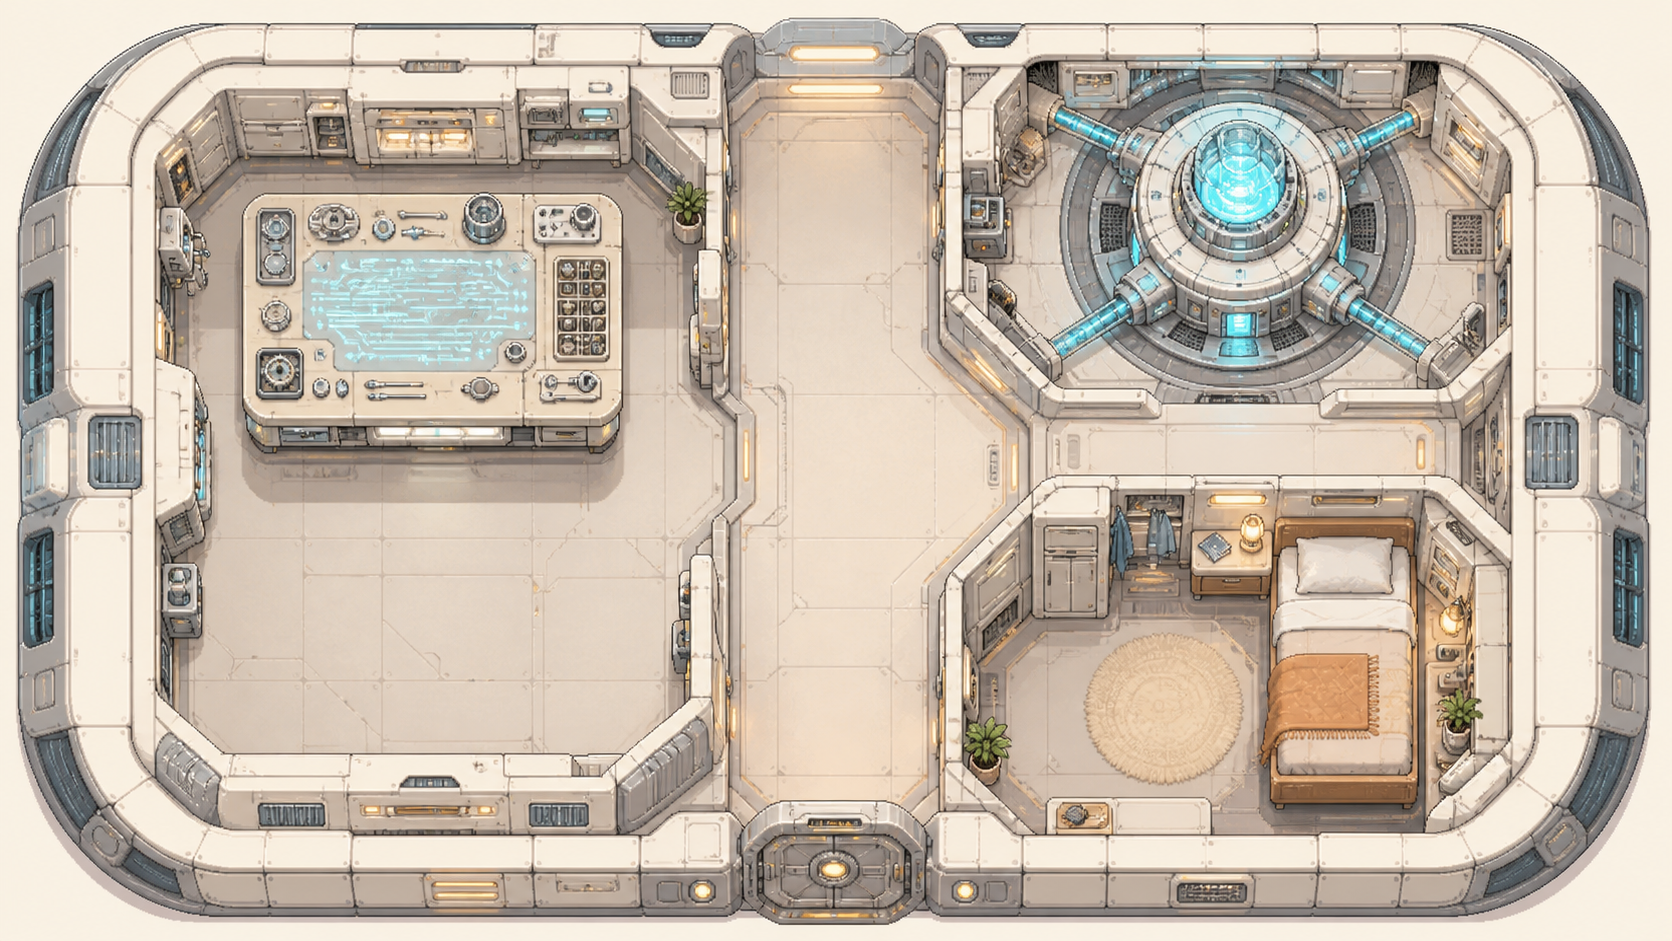
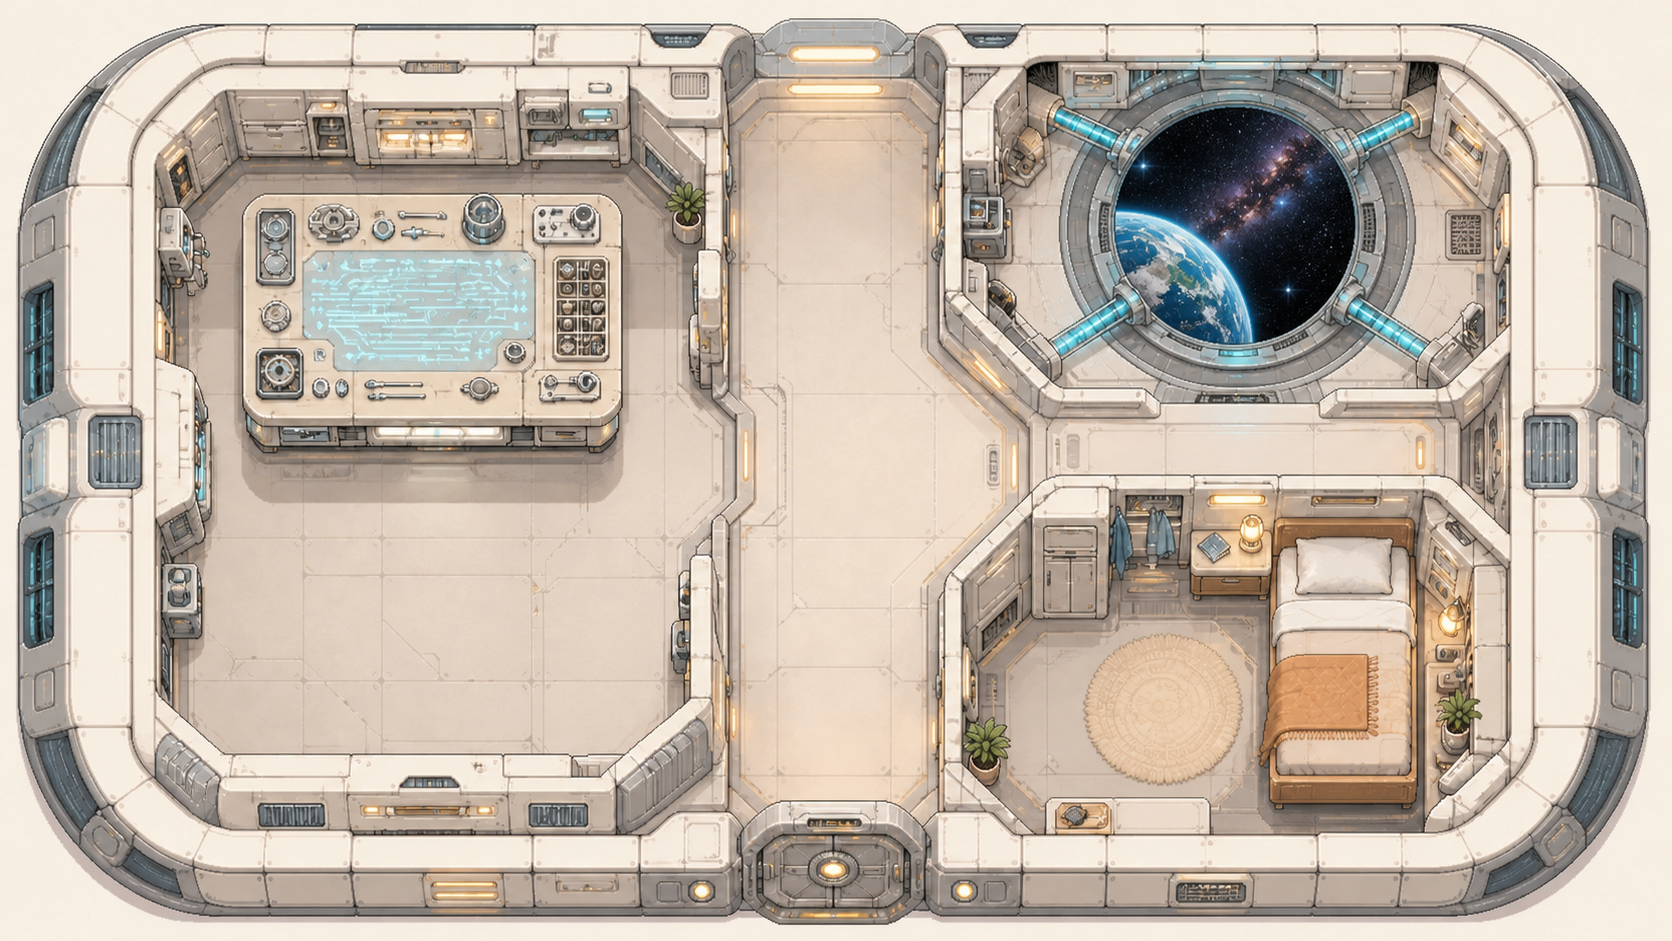
Add scene-aware music and capsule interaction data
The playable Atlas now carries a different musical pattern per scene and short event stingers for collection, transitions, success, and errors. The future capsule map also exposes three named interaction zones as test-covered engine data, while remaining a separate scene candidate.\n\nConstraint: Audio remains browser-local WebAudio and must degrade to silent play when unavailable.\nRejected: One global loop for every scene | it hides the difference between the river, station, and archive.\nConfidence: high\nScope-risk: moderate\nReversibility: clean\nDirective: Keep capsule zones data-only until a visible route and interaction contract are implemented.\nTested: focused frontend/web tests, full 265-test starter_kit suite, verify_submission all phases\nNot-tested: Real-device audio output and capsule interaction UX.

diff --git a/starter_kit/web/pixel.js b/starter_kit/web/pixel.js
@@ -6,6 +6,11 @@ const ctx = canvas.getContext("2d");
 const $ = (selector) => document.querySelector(selector);
 const TILE = 16;
 const COLORS = { grass: "#75b59e", grass2: "#83c1a4", wall: "#3e3657", wallTop: "#5f577b", water: "#78c7d4", flower: "#f06a7b", yellow: "#f6dd78", player: "#f06a7b", ink: "#281d35", paper: "#fff2c8" };
+const MUSIC_PATTERNS = {
+  village: { root: 0, tempo: 260, pad: [0, 7, 12], bass: [0, 0, -5, -5], melody: [12, 10, 7, 5, 7, 10, 12, 15] },
+  river: { root: -5, tempo: 220, pad: [-5, 2, 7, 14], bass: [-5, -5, 2, 2], melody: [7, 10, 14, 17, 14, 10, 7, 5] },
+  archive: { root: 3, tempo: 300, pad: [3, 10, 15], bass: [3, 3, -2, -2], melody: [15, 14, 10, 7, 10, 14, 17, 14] },
+};
 const mapImages = Object.fromEntries(Object.entries(worldEngine.SCENES).map(([id, scene]) => {
   const image = new Image();
   image.src = scene.background;
@@ -26,9 +31,11 @@ let toastTimer = 0;
 let lastFrame = performance.now();
 let currentScene = worldEngine.sceneAt(game.player);
 let audioContext = null;
+let audioGraph = null;
 let musicTimer = null;
 let musicOn = false;
 let musicStep = 0;
+let musicScene = "village";
 let movementClock = 0;
 const MOVE_INTERVAL = worldEngine.MOVE_INTERVAL;
 let playerAction = "idle";
@@ -65,7 +72,6 @@ function updateHud() {
   });
   $("#pixel-scene-name strong").textContent = worldEngine.SCENES[currentScene].name;
   $("#pixel-phase-value").textContent = worldEngine.SCENES[currentScene].phase.toUpperCase();
-  $(".pixel-stage").style.backgroundImage = `url('${worldEngine.SCENES[currentScene].background}')`;
   $("#pixel-zoom-meter strong").textContent = `${Math.round(zoom * 100)}%`;
   updateGuide();
   updateStoryLog();
@@ -131,45 +137,91 @@ function noteFrequency(note) {
   return 110 * (2 ** (note / 12));
 }
 
-function playMusicNote(note, duration = .18, volume = .018) {
-  if (!audioContext || !musicOn) return;
+function createMusicGraph() {
+  const AudioContextClass = window.AudioContext || window.webkitAudioContext;
+  if (!AudioContextClass) return null;
+  if (!audioContext) audioContext = new AudioContextClass();
+  if (audioGraph) return audioGraph;
+  const masterGain = audioContext.createGain();
+  const padGain = audioContext.createGain();
+  const bassGain = audioContext.createGain();
+  const melodyGain = audioContext.createGain();
+  const percussionGain = audioContext.createGain();
+  masterGain.gain.value = 0.0001;
+  padGain.gain.value = 0.42;
+  bassGain.gain.value = 0.34;
+  melodyGain.gain.value = 0.26;
+  percussionGain.gain.value = 0.18;
+  [padGain, bassGain, melodyGain, percussionGain].forEach((gain) => gain.connect(masterGain));
+  masterGain.connect(audioContext.destination);
+  audioGraph = { masterGain, padGain, bassGain, melodyGain, percussionGain };
+  return audioGraph;
+}
+
+function scheduleTone(note, duration, volume, type, when, destination) {
+  if (!audioContext || !audioGraph || !musicOn) return;
   const oscillator = audioContext.createOscillator();
   const gain = audioContext.createGain();
-  oscillator.type = "triangle";
+  oscillator.type = type;
   oscillator.frequency.value = noteFrequency(note);
-  gain.gain.setValueAtTime(volume, audioContext.currentTime);
-  gain.gain.exponentialRampToValueAtTime(.0001, audioContext.currentTime + duration);
-  oscillator.connect(gain).connect(audioContext.destination);
-  oscillator.start();
-  oscillator.stop(audioContext.currentTime + duration);
+  gain.gain.setValueAtTime(0.0001, when);
+  gain.gain.linearRampToValueAtTime(volume, when + 0.018);
+  gain.gain.exponentialRampToValueAtTime(0.0001, when + duration);
+  oscillator.connect(gain).connect(destination);
+  oscillator.start(when);
+  oscillator.stop(when + duration + 0.03);
+}
+
+function scheduleMusicStep() {
+  if (!audioContext || !audioGraph || !musicOn) return;
+  const pattern = MUSIC_PATTERNS[musicScene] || MUSIC_PATTERNS.village;
+  const step = musicStep % pattern.melody.length;
+  const when = audioContext.currentTime + 0.025;
+  if (step === 0) pattern.pad.forEach((note) => scheduleTone(pattern.root + note, 1.8, 0.018, "sine", when, audioGraph.padGain));
+  if (step % 2 === 0) scheduleTone(pattern.root + pattern.bass[(step / 2) % pattern.bass.length] - 12, 0.38, 0.035, "triangle", when, audioGraph.bassGain);
+  scheduleTone(pattern.root + pattern.melody[step], 0.24, 0.028, "sine", when, audioGraph.melodyGain);
+  if (step === 0 || step === 4) scheduleTone(pattern.root - 24, 0.055, 0.018, "square", when, audioGraph.percussionGain);
+  musicStep += 1;
+}
+
+function playEventStinger(kind) {
+  if (!audioContext || !audioGraph || !musicOn) return;
+  const patterns = { shard: [12, 19, 24], transition: [0, 7, 12], success: [12, 16, 19, 24], error: [0, -3, -7] };
+  const when = audioContext.currentTime + 0.02;
+  (patterns[kind] || patterns.shard).forEach((note, index) => scheduleTone(note, 0.16 + index * 0.02, 0.045, "sine", when + index * 0.075, audioGraph.melodyGain));
+}
+
+function setMusicScene(scene) {
+  if (!MUSIC_PATTERNS[scene] || scene === musicScene) return;
+  musicScene = scene;
+  musicStep = 0;
+  playEventStinger("transition");
 }
 
 function startMusic() {
-  const AudioContextClass = window.AudioContext || window.webkitAudioContext;
-  if (!AudioContextClass) {
+  const graph = createMusicGraph();
+  if (!graph) {
     toast("当前浏览器不支持环境音乐，但调查仍可继续");
     return;
   }
-  if (!audioContext) audioContext = new AudioContextClass();
   audioContext.resume();
   musicOn = true;
+  graph.masterGain.gain.cancelScheduledValues(audioContext.currentTime);
+  graph.masterGain.gain.setValueAtTime(Math.max(graph.masterGain.gain.value, 0.0001), audioContext.currentTime);
+  graph.masterGain.gain.linearRampToValueAtTime(0.13, audioContext.currentTime + 0.45);
   $("#pixel-music-toggle").textContent = "♫ ON";
   $("#pixel-music-toggle").setAttribute("aria-pressed", "true");
   $("#pixel-music-toggle").setAttribute("aria-label", "关闭量子环境音乐");
   if (musicTimer) return;
-  const motifs = [0, 7, 12, 7, 3, 10, 15, 10];
-  musicTimer = window.setInterval(() => {
-    const root = currentScene === "river" ? -7 : currentScene === "archive" ? 3 : 0;
-    playMusicNote(root + motifs[musicStep % motifs.length], .22, .014);
-    if (musicStep % 4 === 0) playMusicNote(root - 12, .35, .008);
-    musicStep += 1;
-  }, 310);
+  scheduleMusicStep();
+  musicTimer = window.setInterval(scheduleMusicStep, MUSIC_PATTERNS[musicScene].tempo);
 }
 
 function stopMusic() {
   musicOn = false;
   if (musicTimer) window.clearInterval(musicTimer);
   musicTimer = null;
+  if (audioContext && audioGraph) audioGraph.masterGain.gain.linearRampToValueAtTime(0.0001, audioContext.currentTime + 0.25);
   $("#pixel-music-toggle").textContent = "♫ OFF";
   $("#pixel-music-toggle").setAttribute("aria-pressed", "false");
   $("#pixel-music-toggle").setAttribute("aria-label", "打开量子环境音乐");
@@ -617,6 +669,7 @@ function triggerJump() {
 
 function collect(id) {
   mission.shards = [...mission.shards, id];
+  playEventStinger("shard");
   if (mission.shards.length === 1) setStoryBeat(1);
   if (mission.shards.length === 3) setStoryBeat(2);
   updateHud();
@@ -636,6 +689,7 @@ async function runWell() {
     const passport = await response.json();
     if (!response.ok) throw new Error(passport.error || "井没有返回护照");
     mission.complete = true;
+    playEventStinger("success");
     completedNodes = ["observer-zero"];
     await loadStoryWorld();
     $("#pixel-complete-text").textContent = `量子井记录了 ${Object.keys(passport.experiment.control.probabilities).length} 种控制结果和 ${Object.keys(passport.experiment.variant.probabilities).length} 种变体结果。你可以把它们带回 LoomQ 实验室继续复查。`;
@@ -644,6 +698,7 @@ async function runWell() {
     dialogueOpen = false;
     updateHud();
   } catch (error) {
+    playEventStinger("error");
     dialogueLocked = false;
     openDialogue({ speaker: "量子井", kicker: "点亮失败", text: error.message });
   }
@@ -682,6 +737,7 @@ function update(delta) {
   const nextScene = worldEngine.sceneAt(game.player);
   if (nextScene !== currentScene) {
     currentScene = nextScene;
+    setMusicScene(currentScene);
     updateHud();
     toast(`进入${worldEngine.SCENES[currentScene].name}`);
   }

diff --git a/starter_kit/tests/test_atlas_game_frontend.py b/starter_kit/tests/test_atlas_game_frontend.py
@@ -104,6 +104,33 @@ process.stdout.write(JSON.stringify({steps: pixel.GUIDE_STEPS, scenes: pixel.SCE
         self.assertGreaterEqual(result["moveInterval"], 0.1)
 
     @unittest.skipUnless(shutil.which("node"), "Node.js is optional")
+    def test_capsule_rpg_exposes_three_future_interaction_zones(self):
+        script = """
+const pixel = require(process.argv[1]);
+process.stdout.write(JSON.stringify(pixel.CAPSULE_ZONES));
+"""
+        completed = subprocess.run(
+            [
+                shutil.which("node"),
+                "-e",
+                script,
+                str(ROOT / "web" / "pixel_adventure_engine.js"),
+            ],
+            capture_output=True,
+            text=True,
+            check=False,
+        )
+
+        self.assertEqual(completed.returncode, 0, completed.stderr)
+        zones = json.loads(completed.stdout)
+        self.assertEqual(
+            [zone["id"] for zone in zones],
+            ["quantum-workbench", "quantum-engine", "rest-area"],
+        )
+        self.assertEqual([zone["interaction"] for zone in zones], ["experiment", "engine-status", "rest"])
+        self.assertTrue(all(zone["bounds"]["width"] > 0 for zone in zones))
+
+    @unittest.skipUnless(shutil.which("node"), "Node.js is optional")
     def test_pixel_story_and_obstacle_layers_are_separate_from_background(self):
         """Story beats and collision objects must remain data, not baked into the background bitmap."""
         script = """

diff --git a/starter_kit/tests/test_web.py b/starter_kit/tests/test_web.py
@@ -391,6 +391,19 @@ class WebLabTests(unittest.TestCase):
         self.assertIn("drawContain(mapImage)", script)
         self.assertNotIn("function drawCover(image)", script)
 
+    def test_pixel_music_has_layered_scene_patterns_and_event_stingers(self):
+        status, headers, body = self.request("/pixel.js")
+        script = body.decode()
+        self.assertEqual(status, 200)
+        self.assertIn("MUSIC_PATTERNS", script)
+        self.assertIn("village:", script)
+        self.assertIn("river:", script)
+        self.assertIn("archive:", script)
+        self.assertIn("scheduleMusicStep", script)
+        self.assertIn("playEventStinger", script)
+        self.assertIn("masterGain", script)
+        self.assertIn("musicOn", script)
+
     def test_frontend_renders_trace_amplitudes_and_can_clear_history(self):
         status, headers, body = self.request("/app.js")
 

diff --git a/starter_kit/web/assets/README.md b/starter_kit/web/assets/README.md
@@ -26,6 +26,6 @@ The six files were resized to 1200×800 for archive and browser weight. No text,
 
 `pixel-space-background-v2.png`, `pixel-space-bridge-v2.png`, and `pixel-space-archive-v2.png` were generated on 2026-08-25 with the built-in GPT Image tool. They are 1672×941 16:9 strict top-down 2D RPG map backgrounds: observatory terrain, entanglement river/bridge terrain, and archive courtyard terrain. They are background layers, not perspective illustrations; they contain no characters, text, logos, watermarks, or scientific claims.
 
-`pixel-building-sheet-v2.png` is a 1254×1254 transparent 2×2 sprite sheet containing four separate top-down building designs. `pixel-space-capsule-rpg-v1.png` is a 1672×941 light-ivory top-down RPG capsule layout, kept as a separate scene candidate for the next map chapter.
+`pixel-building-sheet-v2.png` is a 1254×1254 transparent 2×2 sprite sheet containing four separate top-down building designs. `pixel-space-capsule-rpg-v1.png` is a 1672×941 light-ivory top-down RPG capsule layout with three future interaction zones—quantum workbench, quantum engine, and rest area—and a circular porthole showing Earth against the Milky Way. It is kept as a separate scene candidate for the next map chapter.
 
 The renderer displays the background with a contain fit and letterboxing instead of cover cropping. The canvas draws the complete background in screen space, then draws collision, buildings, characters, and evidence objects in the camera-transformed world layer. This keeps the full architecture visible while preserving movement and interaction overlays.
